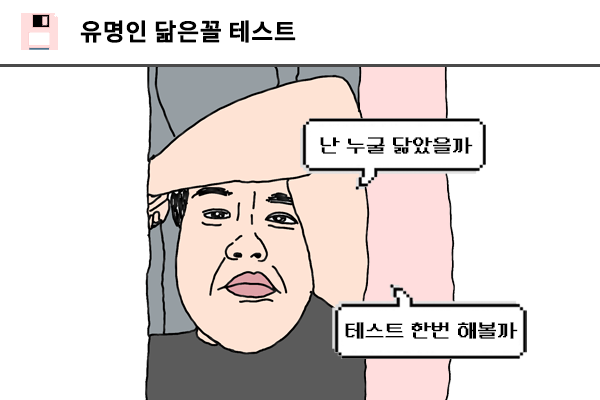
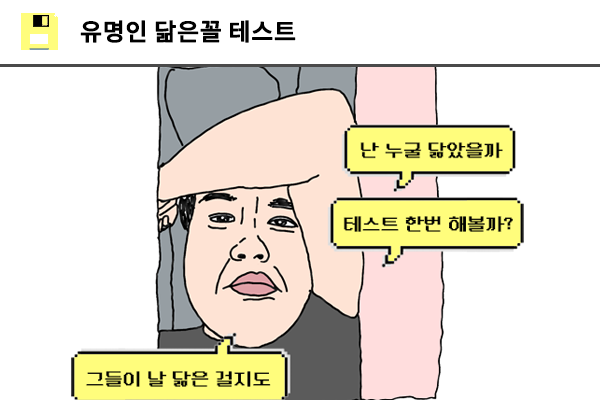
first commit

Changed region(s): [[0.12, 0.15, 0.9, 1.0], [0.03, 0.03, 0.12, 0.15]]

diff --git a/test182.html b/test182.html
@@ -171,13 +171,13 @@ body {
     object-fit: contain;
     border-radius: 5px;
     border: dashed 1.5px #ffffff;
-    background-color: #ffeafd;
+    background-color: #fffd7c;
     
 }
 
 .image-dropping,
 .image-upload-wrap:hover {
-    background-color: #ffeafd;
+    background-color: #fffd7c;
     border: 1.5px dashed #ffffff;
 }
 
@@ -205,8 +205,8 @@ body {
 
 .try-again-btn {
   border-radius: 40px;
-  border: solid 1.5px #ffeafd;
-  background-color: #ffeafd;
+  border: solid 1.5px #fffd7c;
+  background-color: #fffd7c;
 }
 
 .try-again-text {
@@ -429,7 +429,12 @@ input:checked + label > .knob > i:before {
     margin: 0 auto;
 }
 
-    
+  
+    .custom-button {
+            width: 100%;
+            max-width: 300px;
+            margin: 0 auto;
+        }  
  
 
 </style>
